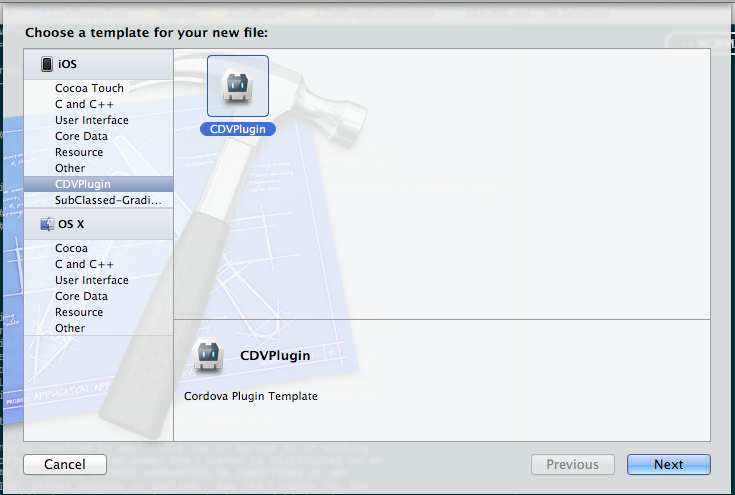
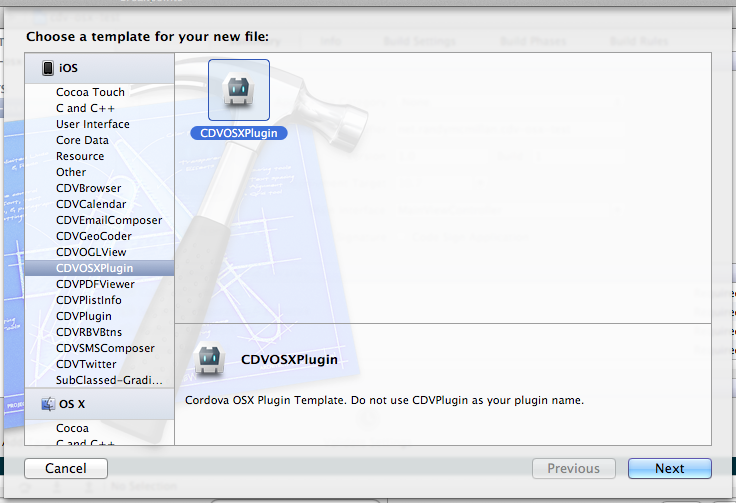
README

diff --git a/README.md b/README.md
@@ -1,33 +1,33 @@
-CDVPlugin
+CDVOSXPlugin
 ===
 
-Cordova (iOS) Xcode Plugin Template
+Cordova (OSX) Xcode Plugin Template
 ---
 
 
 
 ###Installation:
     $ cd ~/Library/Developer/Xcode/Templates/File\ Templates
-    $ git clone https://github.com/RandyMcMillan/CDVPlugin.git
+    $ git clone https://github.com/RandyMcMillan/CDVOSXPlugin.git
 
-![image](https://raw.github.com/RandyMcMillan/CDVPlugin/master/ScreenShot.png)
+![image](https://raw.github.com/RandyMcMillan/CDVOSXPlugin/master/ScreenShot.png)
 
 ###Usage:
-####Open your Cordova (iOS) Xcode Project
+####Open your Cordova (OSX) Xcode Project
 
 * Press <COMMAND+n>    
 
-    ![image](https://raw.github.com/RandyMcMillan/CDVPlugin/master/ScreenShot2.png)  
+    ![image](https://raw.github.com/RandyMcMillan/CDVOSXPlugin/master/ScreenShot2.png)  
 
 * RENAME your Plugin! (_Do not use CDVPlugin_)  
 
-    ![image](https://raw.github.com/RandyMcMillan/CDVPlugin/master/ScreenShot3.png)  
+    ![image](https://raw.github.com/RandyMcMillan/CDVOSXPlugin/master/ScreenShot3.png)  
 
 * Copy the MyCDVPlugin.js file to your /www folder
 
-    ![image](https://raw.github.com/RandyMcMillan/CDVPlugin/master/ScreenShot4.png)
+    ![image](https://raw.github.com/RandyMcMillan/CDVOSXPlugin/master/ScreenShot4.png)
     
-[Sample index.html is included in the generated plugin](https://raw.github.com/RandyMcMillan/CDVPlugin/master/CDVPlugin.xctemplate/index.html)
+[Sample index.html is included in the generated plugin](https://raw.github.com/RandyMcMillan/CDVOSXPlugin/master/CDVOSXPlugin.xctemplate/index.html)
 
 
 <br><br>
